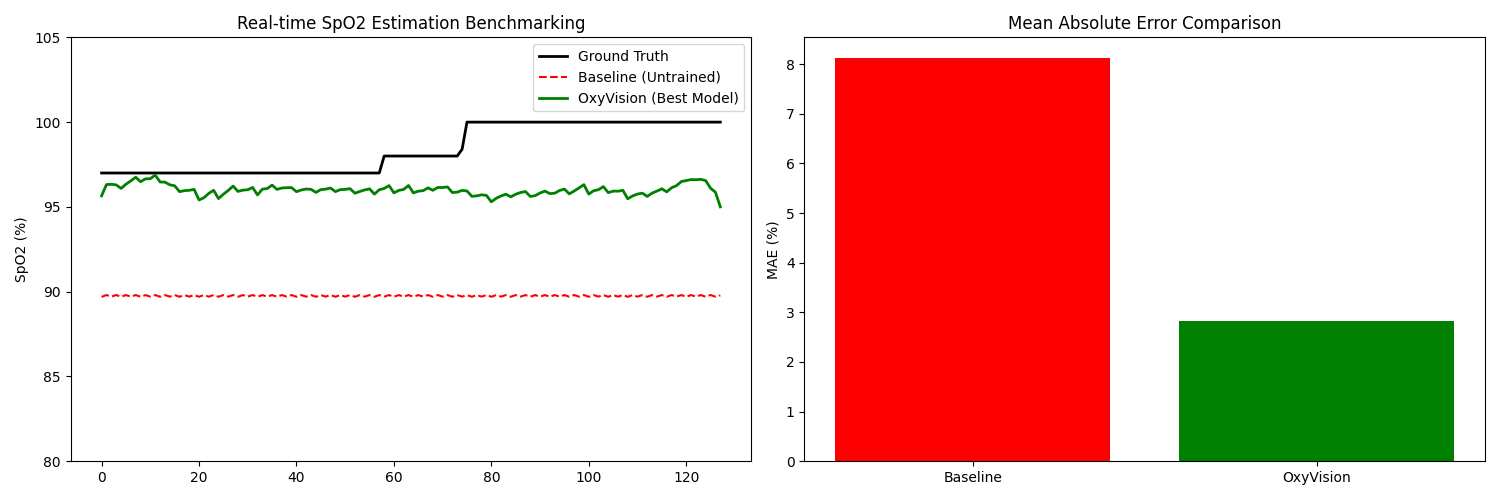
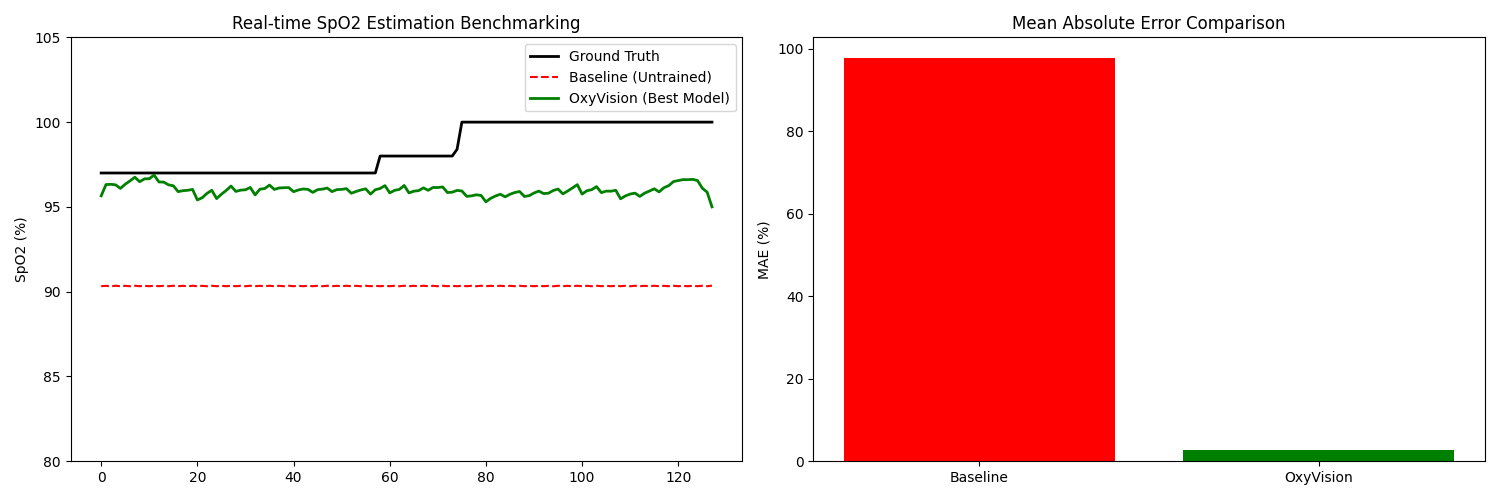
finalres

diff --git a/run_comparison.py b/run_comparison.py
@@ -97,8 +97,6 @@ def run_final_comparison():
             
             # Baseline Inference
             out_b, _, _, _ = baseline_model(inputs)
-            # Apply range constraint so it's visible on the 80-100% plot
-            out_b = 80 + 20 * torch.sigmoid(out_b)
             all_baseline_preds.append(out_b.cpu().numpy())
             
             # Constrained Inference
@@ -122,10 +120,12 @@ def run_final_comparison():
     # We take the first chunk for plotting
     truth = all_truth[0][0]
     pred_b = all_baseline_preds[0][0]
+    # Apply constraint ONLY for visualization purposes so it appears in the 80-105% range
+    pred_b_viz = 80 + 20 * (1 / (1 + np.exp(-pred_b)))
     pred_c = all_constrained_preds[0][0]
     
     ax1.plot(truth, color='black', label='Ground Truth', linewidth=2)
-    ax1.plot(pred_b, color='red', linestyle='--', label='Baseline (Untrained)')
+    ax1.plot(pred_b_viz, color='red', linestyle='--', label='Baseline (Untrained)')
     ax1.plot(pred_c, color='green', label='OxyVision (Best Model)', linewidth=2)
     ax1.set_title('Real-time SpO2 Estimation Benchmarking'); ax1.set_ylabel('SpO2 (%)'); ax1.legend()
     ax1.set_ylim(80, 105)
